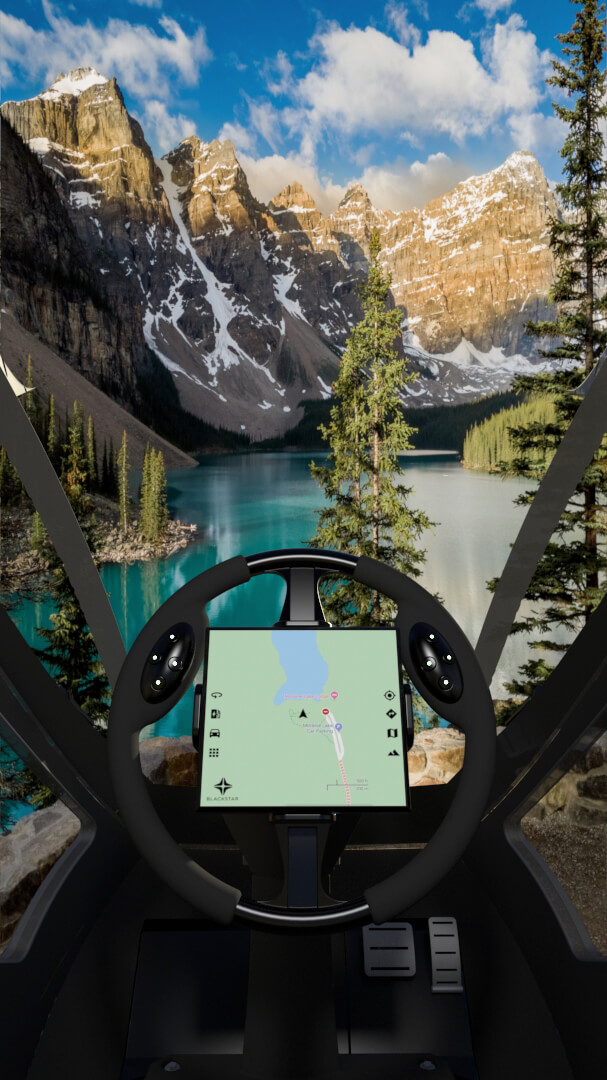
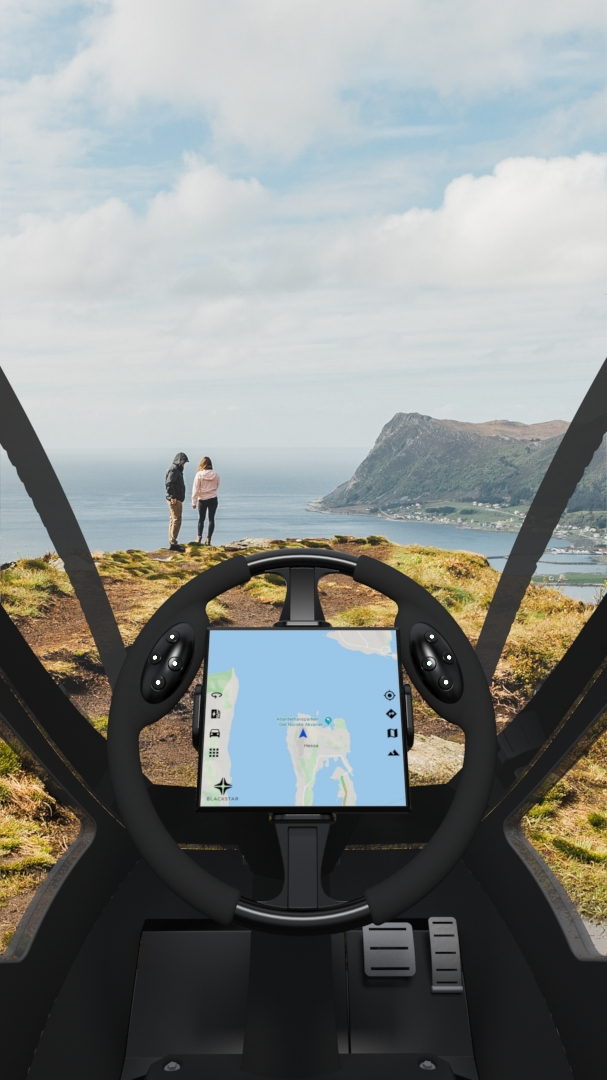
clean up images folder

diff --git a/index.html b/index.html
@@ -23,13 +23,13 @@
     <section class="frontPage" id="one">
         <div class="backgroundImage">
             <picture>
-                <source srcset="img\DekstopBg\section1.jpg" media="(min-width: 692px)" />
+                <source srcset="img\DesktopBg\section1.jpg" media="(min-width: 692px)" />
                 <img src="img/MobileBg/sectionM1.jpg" loading="lazy" alt="Black terrain vehicle in forest.">
             </picture>
         </div>
 
         <nav class="mainNav">
-            <a href="#one"><img src="img/logoWhite.svg" loading="lazy" alt="Blackstar logo"></a>
+            <a href="#one"><img src="img/icons/logoWhite.svg" loading="lazy" alt="Blackstar logo"></a>
             <div class="hamburgerIcon">
                 <!-- Hamburger menu -->
                 <div class="bar1"></div>
@@ -74,7 +74,7 @@
     <section class="secondPage" id="two">
         <div class="backgroundImage">
             <picture>
-                <source srcset="img\DekstopBg\section2.jpg" media="(min-width: 692px)" />
+                <source srcset="img\DesktopBg\section2.jpg" media="(min-width: 692px)" />
                 <img src="img/mobileBg/sectionM2.jpg" loading="lazy" alt="Grey terrain vehicle and a blue tent by a lake.">
             </picture>
         </div>
@@ -99,7 +99,7 @@
     <section class="thirdPage" id="three">
         <div class="backgroundImage">
             <picture>
-                <source srcset="img\DekstopBg\section3.jpg" media="(min-width: 692px)" />
+                <source srcset="img\DesktopBg\section3.jpg" media="(min-width: 692px)" />
                 <img src="img//mobileBg/sectionM3.jpg" loading="lazy" alt="Black terrain vehicle and surfer with surfboard standing by the shore.">
             </picture>
         </div>
@@ -120,8 +120,8 @@
     <section class="fourthPage" id="four">
         <div class="backgroundImage">
             <picture>
-                <source srcset="img\DekstopBg\AG_P7_Interior_Desktop.jpg" media="(min-width: 692px)" />
-                <img src="img//mobileBg/AG_P7_Interior_Mobile.jpg" loading="lazy" alt="Interior view of the terrain vehicle with steering wheel and GPS, with a scenery over the Norweigian ocean and mountains with two people.">
+                <source srcset="img\DesktopBg\section4.jpg" media="(min-width: 692px)" />
+                <img src="img//mobileBg/sectionM4.jpg" loading="lazy" alt="Interior view of the terrain vehicle with steering wheel and GPS, with a scenery over the Norweigian ocean and mountains with two people.">
             </picture>
         </div>
         <div class="textContent">
@@ -233,7 +233,7 @@
     <section class="sixthPage" id="six">
         <div class="backgroundImage">
             <picture>
-                <source srcset="img\DekstopBg\section6.jpg" media="(min-width: 692px)" />
+                <source srcset="img\DesktopBg\section6.jpg" media="(min-width: 692px)" />
                 <img src="img//mobileBg/sectionM6.jpg" loading="lazy" alt="Light grey terrain vehicle on a beach with two surfers walking out to the water.">
             </picture>
         </div>
@@ -278,8 +278,8 @@
     <footer class="seventhPage" id="seven">
         <div class="backgroundImage aboutBackground">
             <picture>
-                <source srcset="img/about-us-desktop.jpg" media="(min-width: 692px)" />
-                <img src="img/about-us-mobile.jpg" loading="lazy" alt="Dark forest with waterfall.">
+                <source srcset="img/DesktopBg/about-us-desktop.jpg" media="(min-width: 692px)" />
+                <img src="img/MobileBg/about-us-mobile.jpg" loading="lazy" alt="Dark forest with waterfall.">
             </picture>
         </div>
         <article>
@@ -301,9 +301,9 @@
                 <li>contact@blackstar.com</li>
                 <li>Arkivgatan 1, 411 34 Göteborg</li>
             </ul>
-            <a href="#"><img src="img/facebook.png" alt="Facebook logo" loading="lazy"></a>
-            <a href="#"><img src="img/instagram.png" alt="Instagram logo" loading="lazy"></a>
-            <a href="#"><img src="img/twitter.png" alt="Twitter logo" loading="lazy"></a>
+            <a href="#"><img src="img/icons/facebook.png" alt="Facebook logo" loading="lazy"></a>
+            <a href="#"><img src="img/icons/instagram.png" alt="Instagram logo" loading="lazy"></a>
+            <a href="#"><img src="img/icons/twitter.png" alt="Twitter logo" loading="lazy"></a>
             <p>Blackstar © 2019 Copyright</p>
         </div>
 
